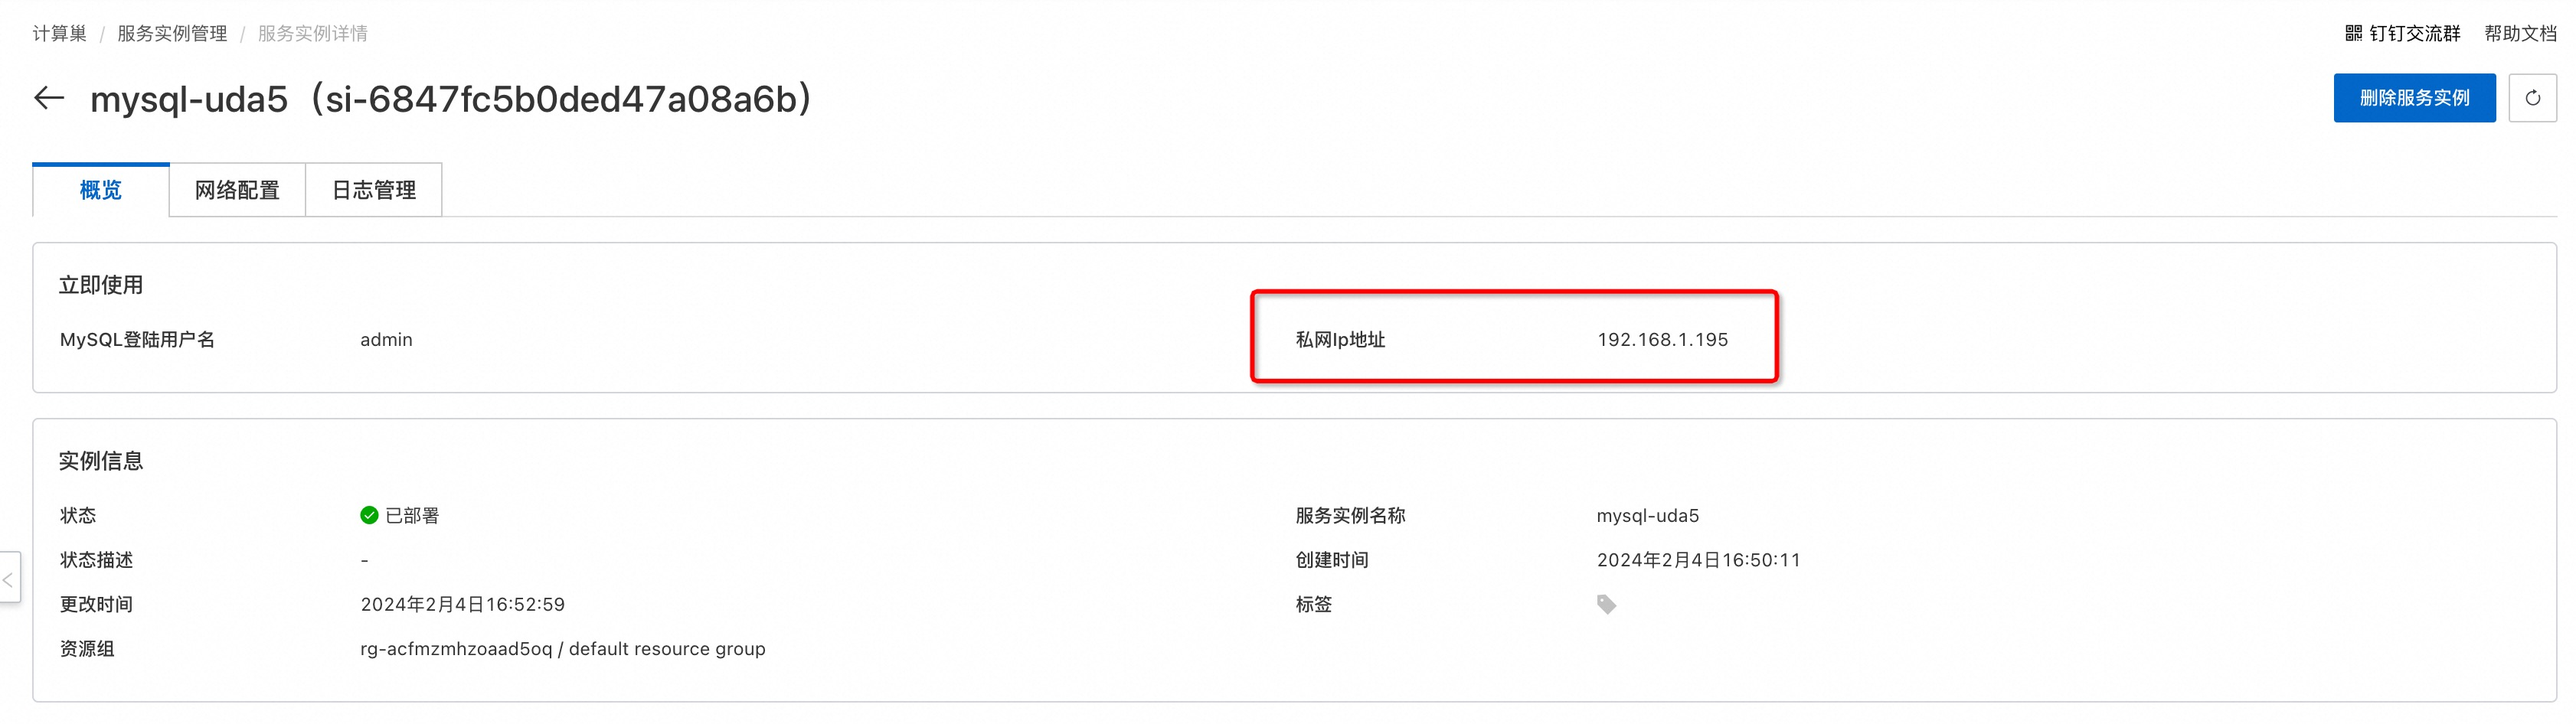
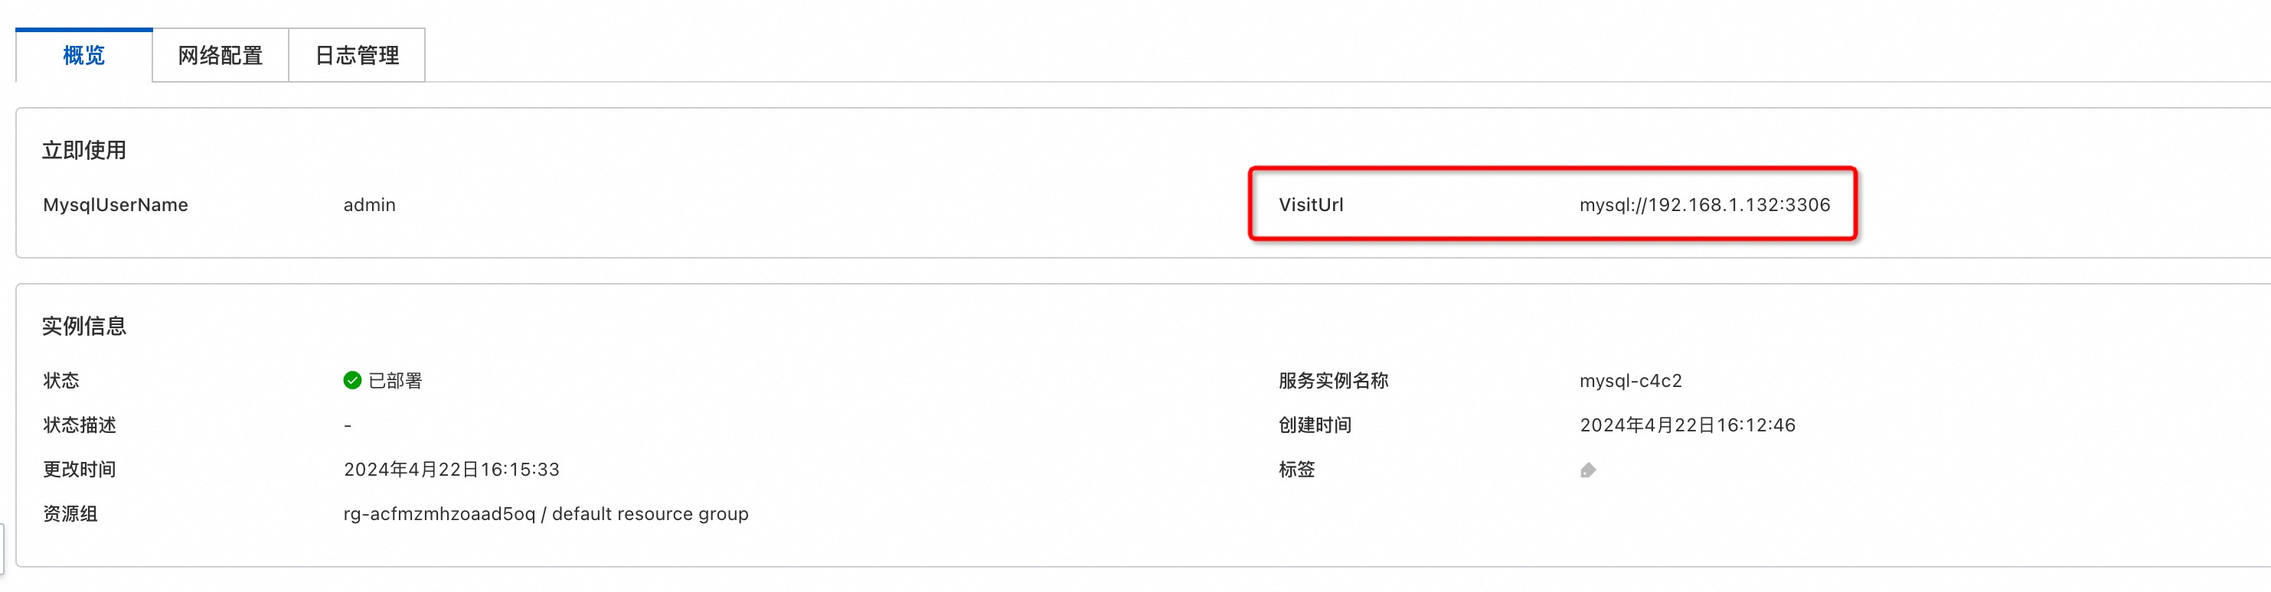
add visitUrl

diff --git a/docs/index.md b/docs/index.md
@@ -108,7 +108,7 @@
    apt install mysql-client
    ```
     3. 在该ECS中连接MySQL，用IP进行连接：
-        ![连接MySQL.png](连接MySQL.png)
+        ![连接MySQL.jpg](连接MySQL.jpg)
 
 ## 服务详细说明
 
